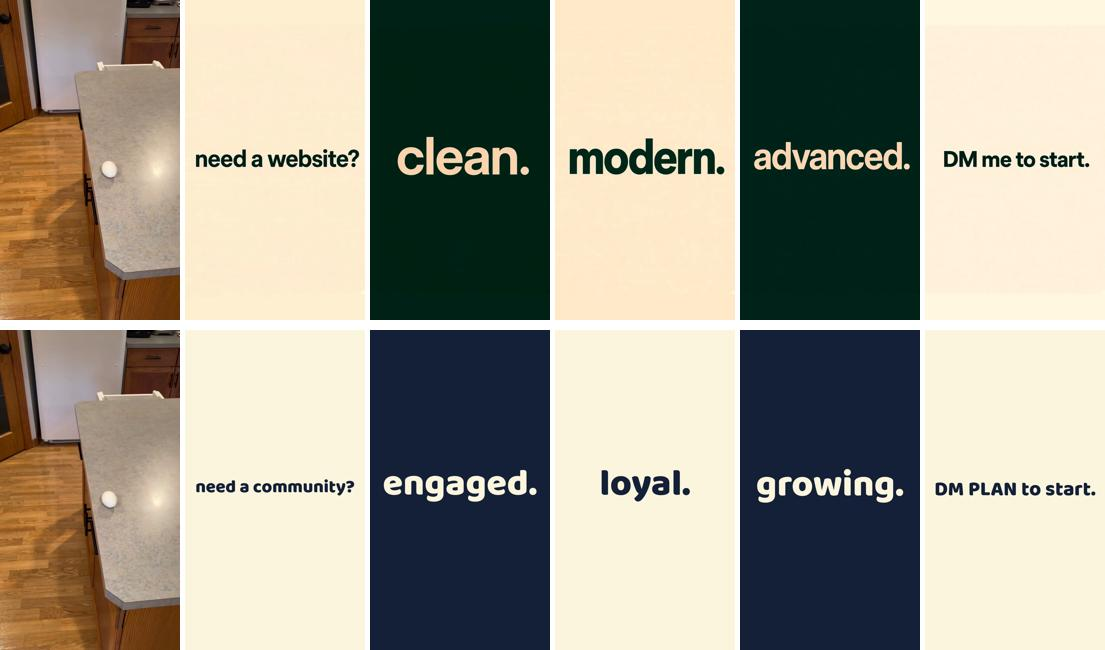
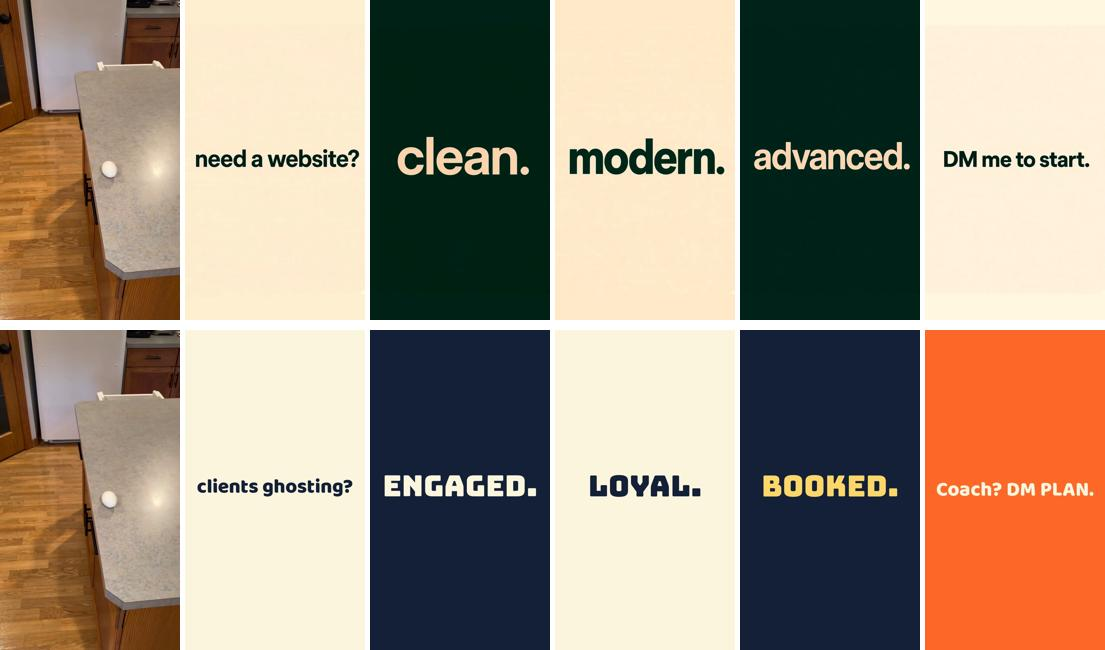
Buzztorm: egg-drop-remake v2 (brand fonts, orange CTA, coach copy); kinetic per-card fonts
Claude-Session: https://claude.ai/code/session_01M7Y4h5phAXsb6zznuw33VY

Changed region(s): [[0.6769, 0.4923, 1.0, 1.0], [0.1538, 0.7077, 0.4923, 0.7692], [0.5231, 0.7077, 0.6462, 0.7692]]

diff --git a/library/tools/kinetic.py b/library/tools/kinetic.py
@@ -57,7 +57,7 @@ def main(spec):
     d0 = ImageDraw.Draw(Image.new('RGB', (10, 10))); fitted = {}
     for ci, c in enumerate(cards):
         px = int(c.get('size', 160)); maxw = (W * float(c['fit'])) if c.get('fit') else W - 2 * int(S.get('side_margin', 130))
-        while d0.textlength(c['text'], font=font(fam, px)) > maxw and px > 44: px -= 2
+        while d0.textlength(c['text'], font=font(c.get('font', fam), px)) > maxw and px > 44: px -= 2
         fitted[ci] = px
     for g in {c.get('group') for c in cards if c.get('group')}:
         m = min(fitted[i] for i, c in enumerate(cards) if c.get('group') == g)
@@ -66,12 +66,12 @@ def main(spec):
     for ci, c in enumerate(cards):
         t1 = cards[ci + 1]['t'] if ci + 1 < len(cards) else end
         f0, f1 = int(round(c['t'] * fps)), int(round(t1 * fps))
-        px = fitted[ci]; fnt = font(fam, px)
+        cf = c.get('font', fam); px = fitted[ci]; fnt = font(cf, px)
         bg, fg = col(c.get('bg', 'paper'), roles), col(c.get('fg', 'primary'), roles)
         for k in range(max(1, f1 - f0)):
             im = Image.new('RGB', (W, H), bg); dr = ImageDraw.Draw(im)
             s = 1.0 + (0.12 * (1 - k / 3) if S.get('pop', True) and k < 3 else 0)
-            f = font(fam, int(px * s)) if s != 1.0 else fnt
+            f = font(cf, int(px * s)) if s != 1.0 else fnt
             tw = dr.textlength(c['text'], font=f); bb = dr.textbbox((0, 0), c['text'], font=f); th = bb[3] - bb[1]
             x, y = (W - tw) / 2, H * c.get('y', 0.5) - th / 2 - bb[1]
             dr.text((x, y), c['text'], font=f, fill=fg)

diff --git a/brands/buzztorm/projects/egg-drop-remake/post.md b/brands/buzztorm/projects/egg-drop-remake/post.md
@@ -1,29 +1,31 @@
-# Buzztorm · Reel · egg-drop-remake · v1
+# Buzztorm · Reel · egg-drop-remake · v2
 
 ## Instagram
-Engaged. Loyal. Growing. That's a community that sells for you. 🥚
+Your clients aren't ghosting you. They just have nowhere to stay. 🥚
 
-Who do you know still posting every day to keep clients around?
+A community keeps them engaged, loyal and booking again, even when you stop posting.
 
-DM us PLAN and we'll send you the booking link.
+Which coach friend just lost another client after week one?
 
-#Buzztorm #onlinecoach #clientgrowth #communitybuilding #contentcreator
+Coach? DM us PLAN and we'll send you the booking link.
+
+#Buzztorm #onlinecoach #fitnesscoach #clientgrowth #communitybuilding
 
 ## TikTok
-Did the egg fall? Watch again. Then DM PLAN. 🥚
+Coach, your clients don't ghost. They drift. Did the egg fall? 🥚
 
-#Buzztorm #onlinecoach #communitybuilding
+#Buzztorm #onlinecoach #fitnesscoach
 
 ## YouTube Shorts
-A community that sells for you: engaged, loyal, growing.
+Coach: engaged, loyal, booked. That's a community.
 
-#Buzztorm #onlinecoach #communitybuilding
+#Buzztorm #onlinecoach #fitnesscoach
 
 ## Pinned comment
-Did the egg fall? 👀
+Did the egg fall? Watch again. 👀
 
 ## Cover
-need a community?
+clients ghosting?
 
 ## Posting note
-Turn on the PLAN DM-keyword automation first. Keep the original sound; no music on top.
+Turn on the PLAN DM-keyword automation first. Keep the original sound; no music on top. Organic only (the egg footage is not ours).

diff --git a/brands/buzztorm/projects/egg-drop-remake/script.md b/brands/buzztorm/projects/egg-drop-remake/script.md
@@ -1,7 +1,7 @@
 # Reel · Hook Library: egg-drop-bait · EXACT REMAKE (original footage and audio, Buzztorm text and colours) · no voiceover
-> HOOK: bait — the egg rolls to the edge and never falls · SEND TRIGGER: "the coach whose clients vanish" · LOOP: silent end → egg
-ON SCREEN: need a community?
-ON SCREEN: engaged.
-ON SCREEN: loyal.
-ON SCREEN: growing.
-ON SCREEN: DM PLAN to start.
+> HOOK: bait — the egg rolls to the edge and never falls · SEND TRIGGER: "the coach whose clients ghost after week one" · LOOP: silent end → egg
+ON SCREEN: clients ghosting?
+ON SCREEN: ENGAGED.
+ON SCREEN: LOYAL.
+ON SCREEN: BOOKED.
+ON SCREEN: Coach? DM PLAN.
